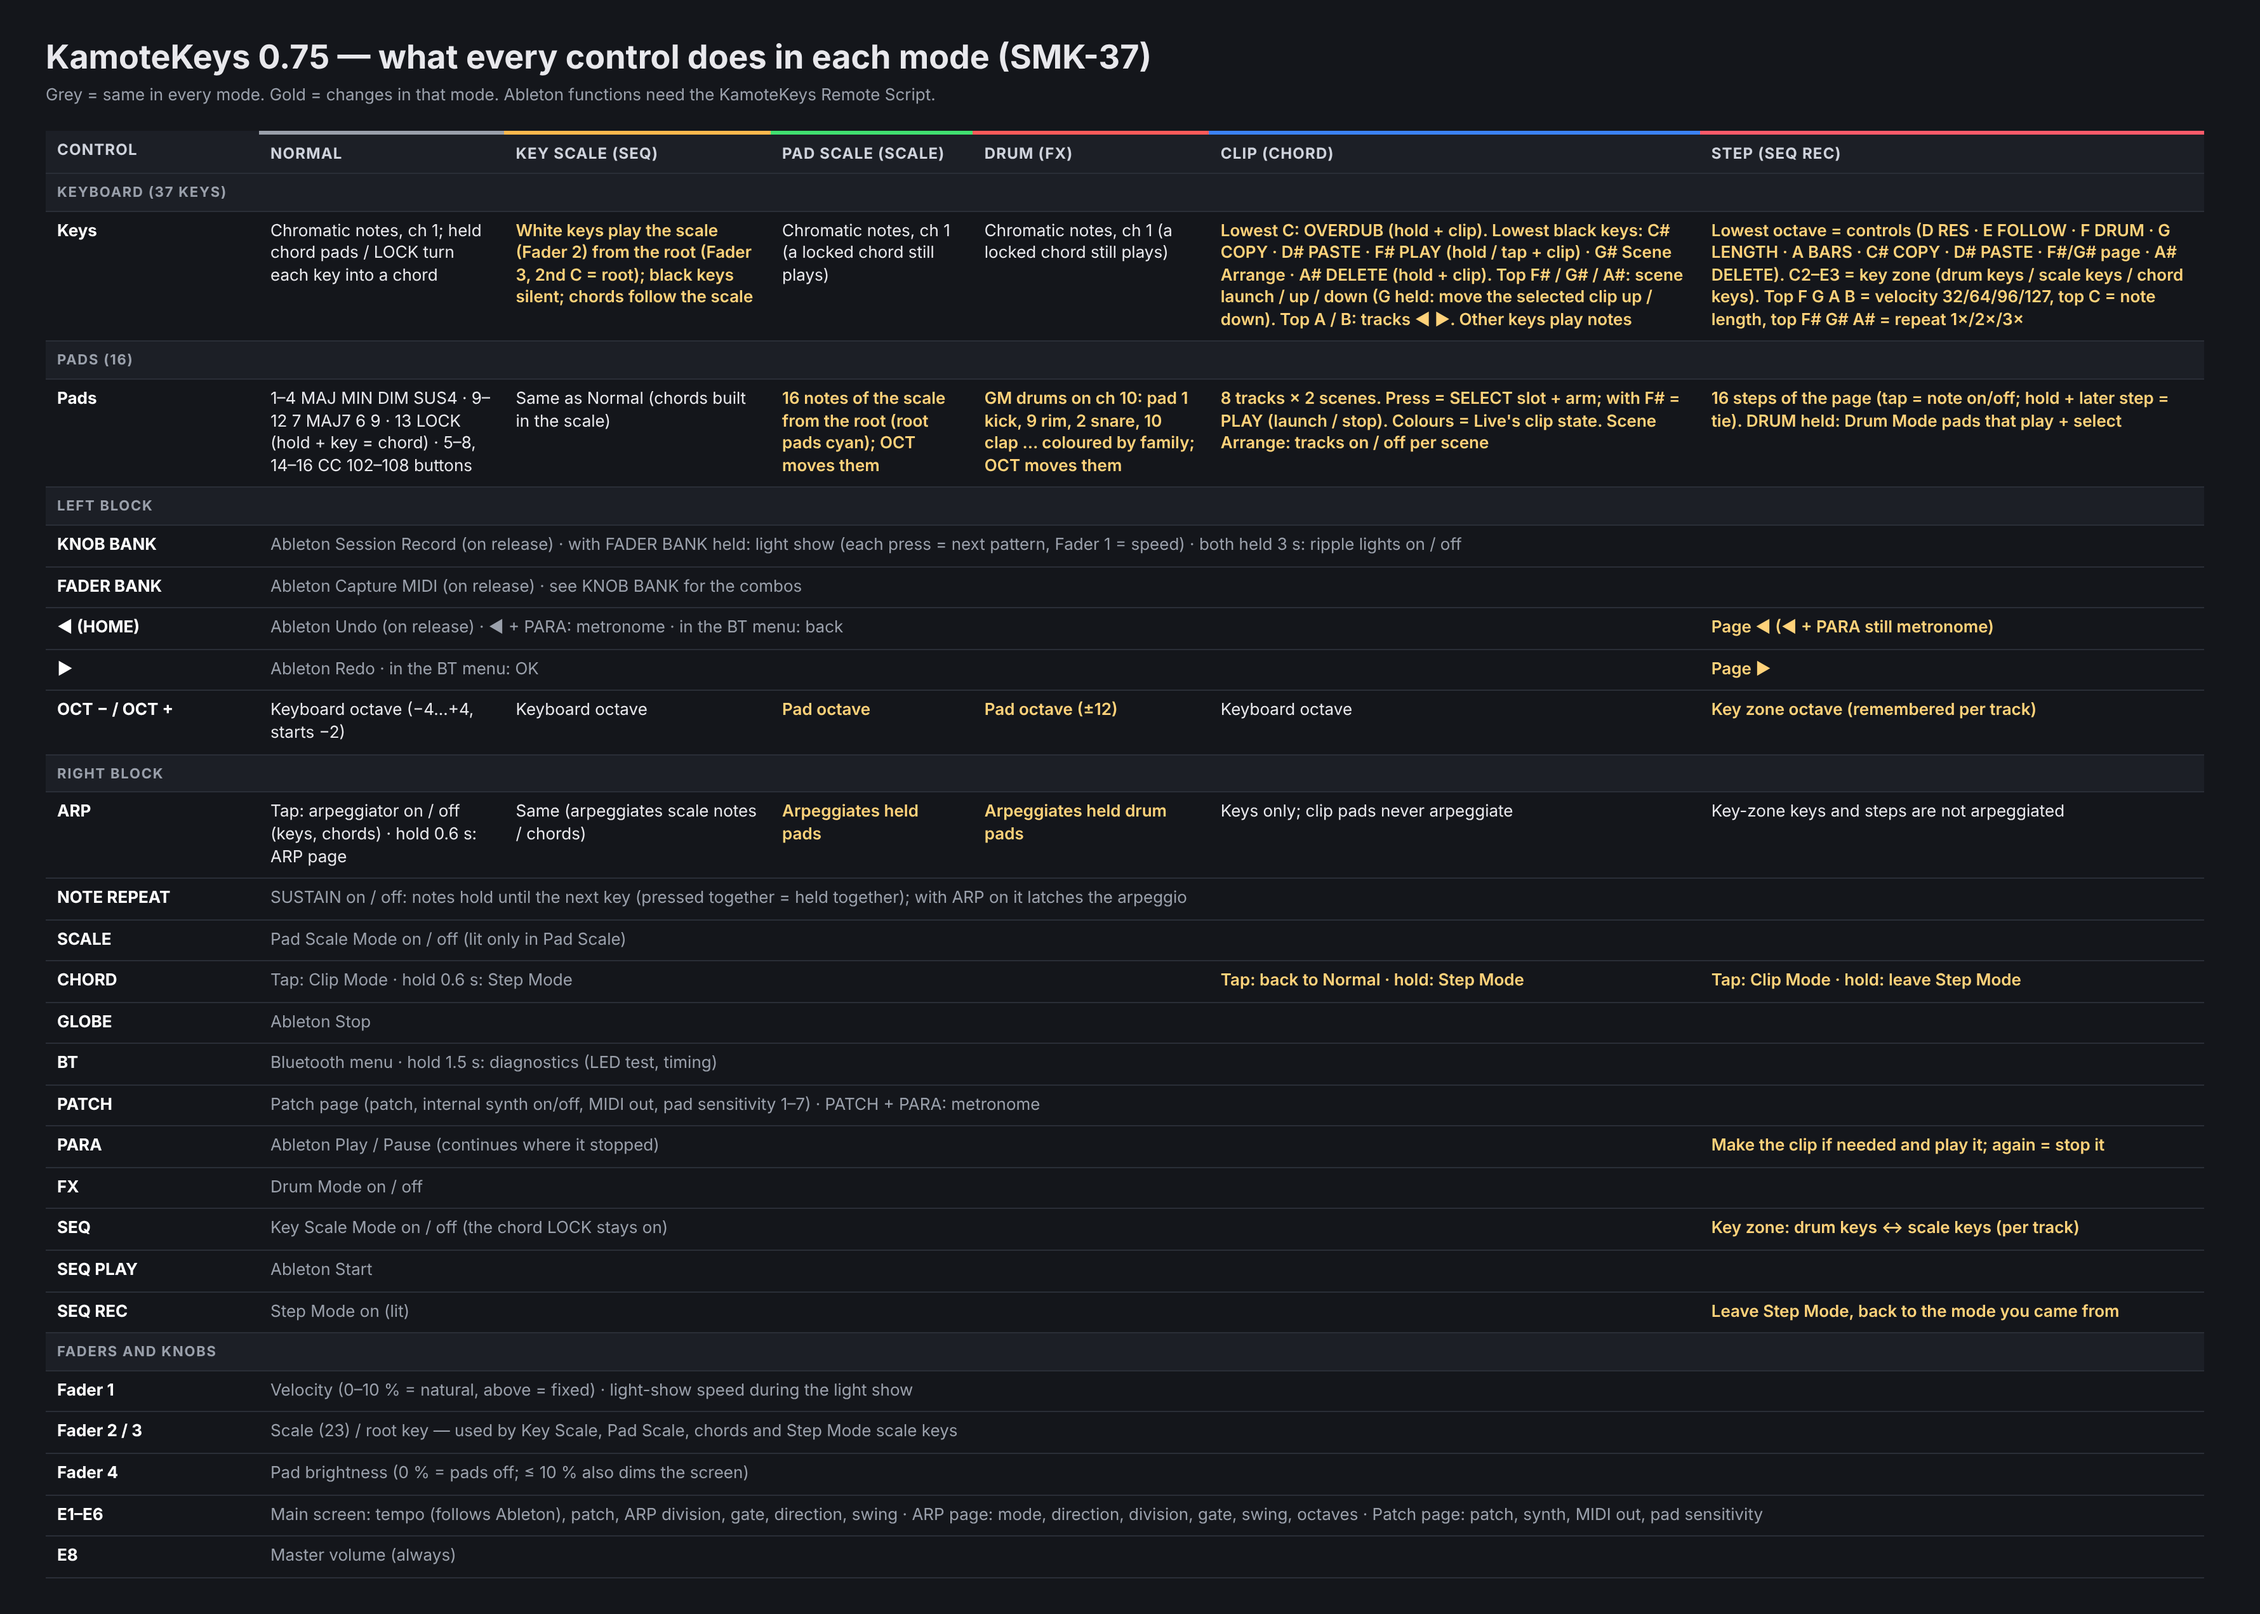
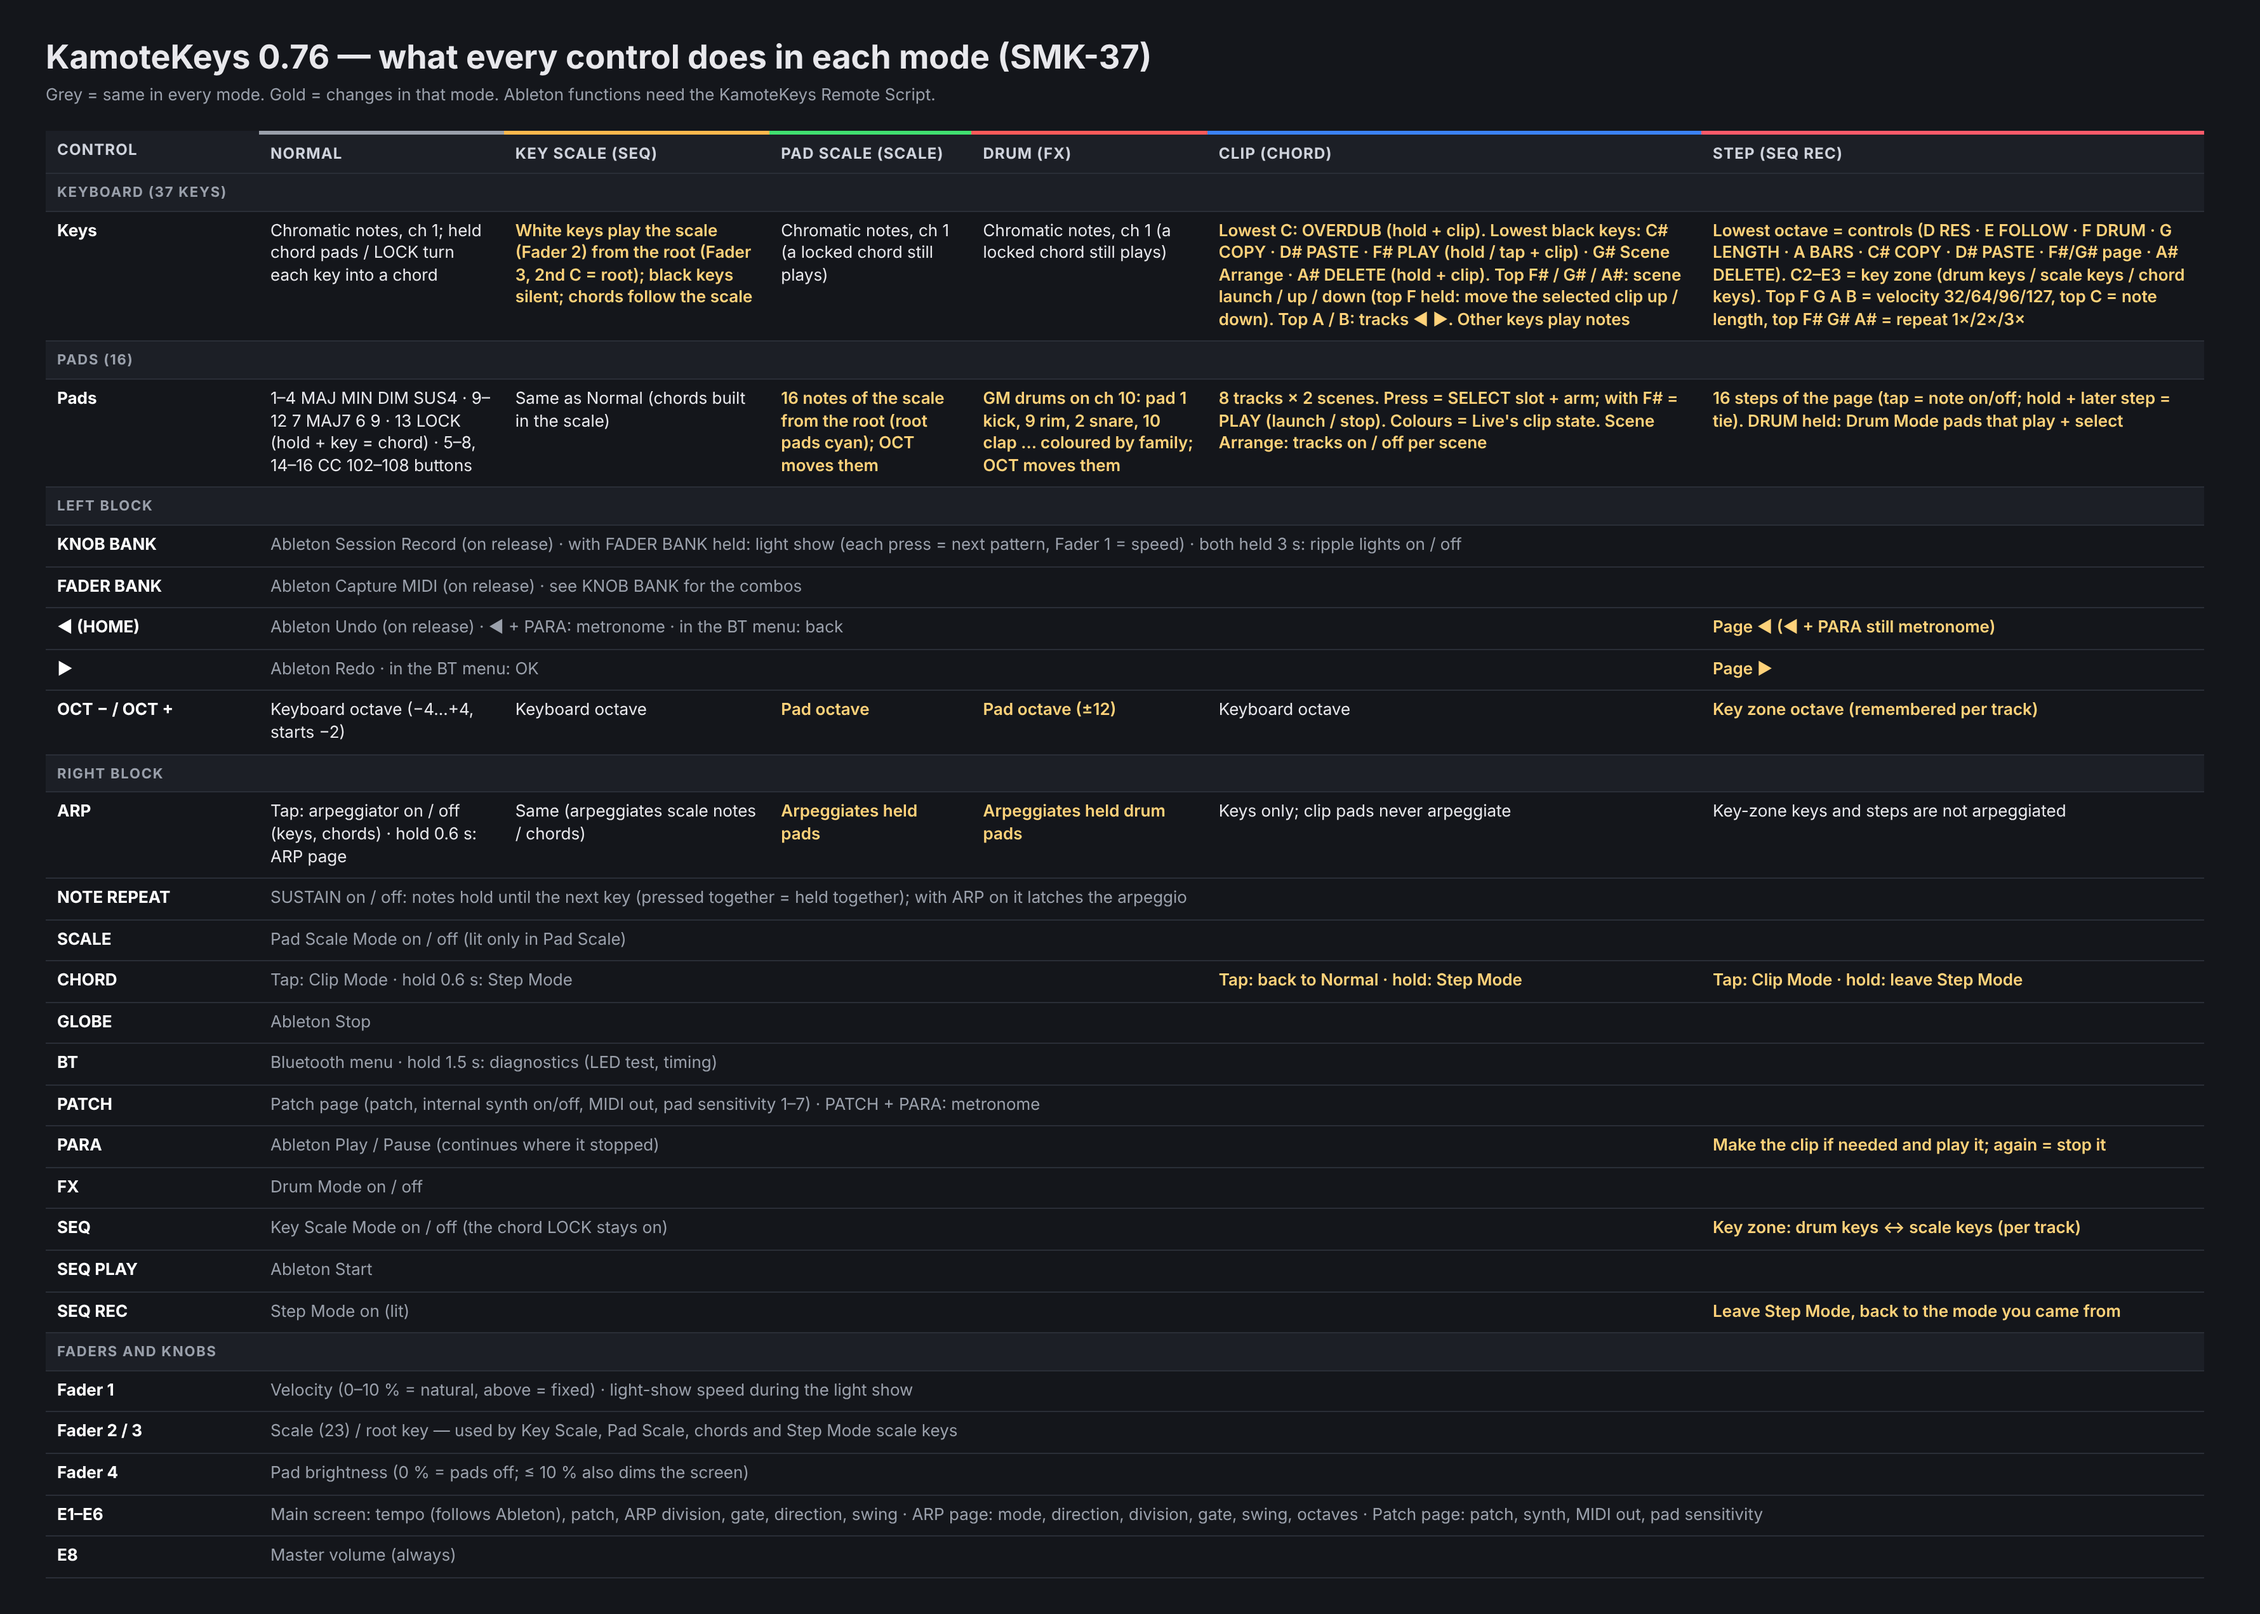
KamoteKeys 0.76: Clip Mode MOVE key on the top F
Claude-Session: https://claude.ai/code/session_014nKCDtX9z2HT4cnrjTFgfW

diff --git a/tests/host/test_live.c b/tests/host/test_live.c
@@ -86,9 +86,10 @@ void test_031(void)
     host_clear(); tap(KK_BTN_ARP); key(6, 100); pad(3, 100); frames(300, 2); pad(3, 0); key(6, 0); tap(KK_BTN_ARP);
     CHECK(out_count(USB, 0x9F, 38) == 1, "ARP does not touch clip launches");
     /* 0.75: G held + top G# / A# = move Live's selected clip up / down (CC 33 / 34). */
-    host_clear(); key(7, 100); key(32, 100); key(32, 0); key(34, 100); key(34, 0); key(7, 0);
+    host_clear(); key(29, 100); key(32, 100); key(32, 0); key(34, 100); key(34, 0); key(29, 0);
     CHECK(out_count(USB, CC15, KK_CC_CLIP_UP) == 2 && out_count(USB, CC15, KK_CC_CLIP_DOWN) == 2 &&
-          out_count(USB, CC15, KK_CC_SCENE_UP) == 0 && out_count(USB, 0x90, -1) == 0, "G + top G# / A#: move the clip up / down, G silent");
+          out_count(USB, CC15, KK_CC_SCENE_UP) == 0 && out_count(USB, 0x90, -1) == 0, "top F + top G# / A#: move the clip up / down, top F silent");
+    host_clear(); key(7, 100); key(7, 0); CHECK(out_count(USB, 0x90, -1) == 1, "low G plays a note again");
     host_clear(); key(32, 100); key(32, 0);
     CHECK(out_count(USB, CC15, KK_CC_SCENE_UP) == 2, "without G: scene up as before");
     host_in(0xBF, KK_CLIP_HELLO_CC, 1);

diff --git a/devices/smk37/app/kamotkeys/kk_device.h b/devices/smk37/app/kamotkeys/kk_device.h
@@ -25,7 +25,7 @@ enum { KK_VELOCITY_DEFAULT = 100 };
  * A plain pad press selects (slot + arm) unless toggled to play. */
 #define KK_CLIP_PRESS_SELECT 1
 enum { KK_CLIP_COPY_KEY = 1, KK_CLIP_PASTE_KEY = 3, KK_CLIP_TOGGLE_KEY = 6 /* F#: PLAY (hold / tap, 0.75) */, KK_CLIP_ARRANGE_KEY = 8,   /* G#: Scene Arrange (0.66) */
-       KK_TRACKS_LEFT_KEY = 33, KK_TRACKS_RIGHT_KEY = 35, KK_CLIP_MOVE_KEY = 7,   /* G held + top G# / A#: move the clip (0.75) */                                        /* top A / B: 8-track view (0.67) */
+       KK_TRACKS_LEFT_KEY = 33, KK_TRACKS_RIGHT_KEY = 35, KK_CLIP_MOVE_KEY = 29,  /* top F held + top G# / A#: move the clip (0.76) */                                        /* top A / B: 8-track view (0.67) */
        KK_CLIP_DELETE_KEY = 10, KK_CLIP_OVERDUB_KEY = 0 };   /* 0.72: lowest C held + clip = OVERDUB */
 /* The third black key (F#) held + clip = SELECT (select the slot, arm its
  * track); the fourth (G#) = launch the selected scene; the last two black

diff --git a/core/kamotkeys/kk_config.h b/core/kamotkeys/kk_config.h
@@ -12,7 +12,7 @@
 #define KK_CONFIG_H
 
 #define KAMOTKEYS_NAME "KamoteKeys"
-#define KAMOTKEYS_VERSION "0.75" KK_DEVICE_SUFFIX
+#define KAMOTKEYS_VERSION "0.76" KK_DEVICE_SUFFIX
 #define KAMOTKEYS_TITLE KAMOTKEYS_NAME " " KAMOTKEYS_VERSION
 
 /* MIDI channels, zero based (channel 1 = 0). */

diff --git a/README.md b/README.md
@@ -160,7 +160,7 @@ The **second physical C** plays the selected tonic, at octave 0 the tonic in the
 
 ### Clip Mode (CHORD)
 
-Pads 1–8 launch clip 1 and pads 9–16 clip 2 of Live tracks 1–8, on channel 16, with LEDs that follow Live (empty very dim, stopped dim blue, playing green, queued blinking amber, recording red). Needs the [KamoteKeys Remote Script](docs/ABLETON_REMOTE_SCRIPT.md). A plain pad press **selects** the slot and arms its track (so KNOB BANK records there); **F#** is **PLAY**: hold it and press clips to launch / stop them, or tap it and the next clip pressed is launched. Hold **G** + top G# / A# to move Live's selected clip a scene up / down. Hold the **lowest C** + a clip to **overdub** into it. Lowest black keys: **C# COPY**, **D# PASTE** (tap = next pad, hold = several), F# select ↔ play, **G# Scene Arrange** (tap pads to choose which tracks play in each scene; top F# launches exactly those), **A# DELETE** (hold + clip); white **top A / B** move the 8-track view; top **F# / G# / A#** = scene launch / up / down. The screen shows what is copied. Live's highlighted slot is **violet**. Full guide: [docs/ABLETON_REMOTE_SCRIPT.md](docs/ABLETON_REMOTE_SCRIPT.md), [diagram](docs/diagrams/SMK37-Clip-Mode.png).
+Pads 1–8 launch clip 1 and pads 9–16 clip 2 of Live tracks 1–8, on channel 16, with LEDs that follow Live (empty very dim, stopped dim blue, playing green, queued blinking amber, recording red). Needs the [KamoteKeys Remote Script](docs/ABLETON_REMOTE_SCRIPT.md). A plain pad press **selects** the slot and arms its track (so KNOB BANK records there); **F#** is **PLAY**: hold it and press clips to launch / stop them, or tap it and the next clip pressed is launched. Hold the **top F** + top G# / A# to move Live's selected clip a scene up / down. Hold the **lowest C** + a clip to **overdub** into it. Lowest black keys: **C# COPY**, **D# PASTE** (tap = next pad, hold = several), F# select ↔ play, **G# Scene Arrange** (tap pads to choose which tracks play in each scene; top F# launches exactly those), **A# DELETE** (hold + clip); white **top A / B** move the 8-track view; top **F# / G# / A#** = scene launch / up / down. The screen shows what is copied. Live's highlighted slot is **violet**. Full guide: [docs/ABLETON_REMOTE_SCRIPT.md](docs/ABLETON_REMOTE_SCRIPT.md), [diagram](docs/diagrams/SMK37-Clip-Mode.png).
 
 ### Step Mode (SEQ REC, or hold CHORD)
 

diff --git a/docs/ABLETON_REMOTE_SCRIPT.md b/docs/ABLETON_REMOTE_SCRIPT.md
@@ -64,7 +64,7 @@ Live talks to the script on **one** MIDI port. In Preferences → Link, Tempo & 
 | plain pad press | **SELECT** (default): selects the slot and **arms its track** (disarms the others), so the next Session Record (KNOB BANK) records there. Toggled to **PLAY** it launches / stops as in the table above |
 | **lowest C** (white) | hold + a clip: **overdub** into it (an empty slot: arm and record a new clip); the same again ends it (0.72) |
 | **F#** (3rd black) | **PLAY** (0.75): hold + clips = launch / stop them; tap, then the next clip pressed is launched (pads select otherwise) |
-| **G** (5th white) held + top **G# / A#** | move Live's selected clip one scene up / down (an occupied slot is swapped); it stays selected (0.75) |
+| **top F** (5th white key from the right) held + top **G# / A#** | move Live's selected clip one scene up / down (an occupied slot is swapped); it stays selected (0.75) |
 | **C#** COPY | tap (or hold), then press a clip: it becomes the clipboard (replacing the last one) |
 | **D#** PASTE | tap, then the next pad gets a copy of the clip (Live's Duplicate); hold PASTE to paste into several pads; tap again to cancel |
 | **A#** DELETE | hold + a clip: delete it |

diff --git a/CLAUDE.md b/CLAUDE.md
@@ -3,6 +3,7 @@
 Performance firmware for the M-VAVE SMK-37 Pro/Elite (on SMK37 OPEN) and FM-1 (on FM1 OPEN), plus an Ableton Live 12 Remote Script. One codebase builds all three.
 
 ## Rules
+- Do NOT push, and do NOT update docs / diagrams / CHANGELOG, unless the user says "publish". Otherwise: change code + tests, run tools/test-all.sh, build the zip (tools/release.sh), give the build blocks. Commit locally only.
 - Git: push only to `origin` (4daspamlamb-lab/kamotechord), branch `kamotekeys`. Never push to `upstream` (m-vave/smk37_open).
 - Never edit `devices/*/sdk/` (hash-locked by `manifest.json`, incl. `Build.ps1`). Never edit the synced copies under `devices/*/app/` that `.gitignore` lists; edit `core/` instead.
 - The user builds on Windows (Parallels, toolchain `C:\JL\pi32`) and flashes in Chrome/Brave on a Mac. Every release reply includes the PowerShell blocks from `build/KamoteKeys-<v>/BUILD.txt` and the flash steps at its end.

diff --git a/CHANGELOG.md b/CHANGELOG.md
@@ -1,5 +1,9 @@
 # Changelog
 
+## KamoteKeys 0.76 (development snapshot)
+
+- Clip Mode MOVE key moved to the **top F** (5th white key from the right): hold it + top G# / A# to move the selected clip up / down. The low G plays a note again.
+
 ## KamoteKeys 0.75 (development snapshot)
 
 - **Clip Mode PLAY key (F#):** pads always select by default; hold F# and press clips to launch / stop them, or tap F# and the next clip pressed is launched (tap again to cancel). No longer a saved switch.
